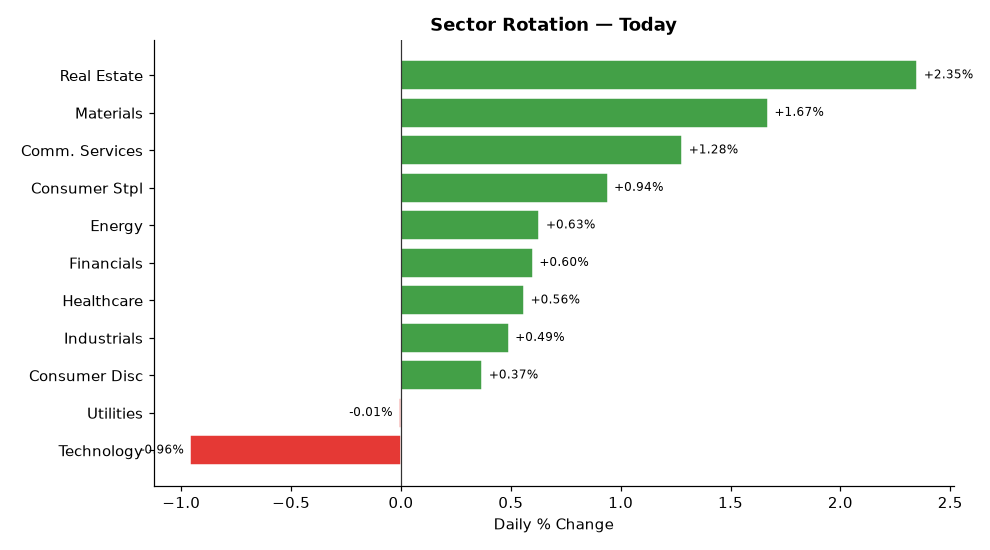
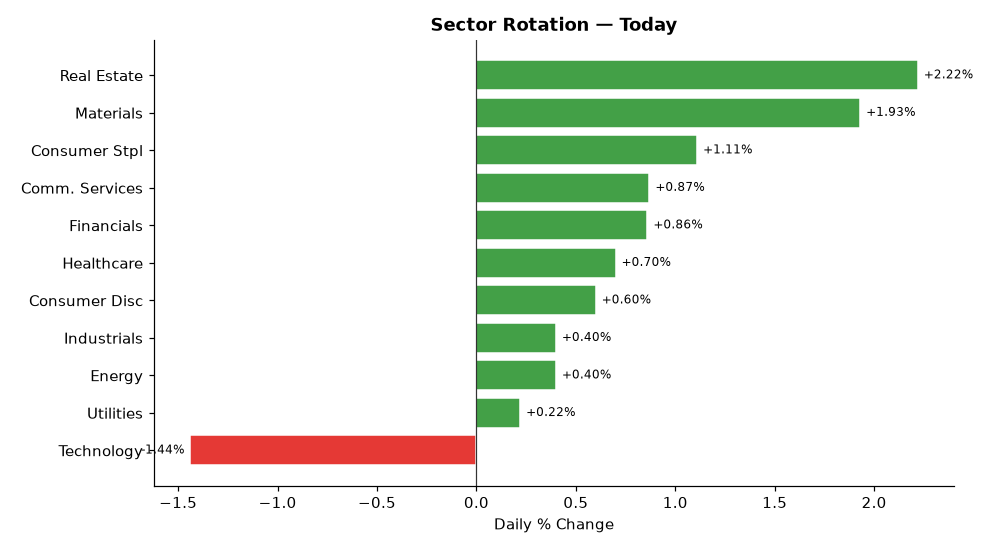
deploy: b7fadf5b06deb90e7ebb92f278722414bdd9750d

diff --git a/index.html b/index.html
@@ -4,7 +4,7 @@
   <meta charset="UTF-8">
   <meta name="viewport" content="width=device-width,initial-scale=1">
   <meta http-equiv="Cache-Control" content="no-cache,no-store,must-revalidate">
-  <title>Stock Breakout Screener — 2026-07-24 18:23</title>
+  <title>Stock Breakout Screener — 2026-07-24 20:15</title>
   <style>
     *{box-sizing:border-box;margin:0;padding:0}
     body{font-family:'Segoe UI',Arial,sans-serif;background:#f0f2f5;
@@ -34,7 +34,7 @@
 
 <div class="hdr">
   <h1>📈 Stock Breakout Screener</h1>
-  <p>Updated: 2026-07-24 18:23 UTC &nbsp;·&nbsp; Phase: Regular Market Hours &nbsp;·&nbsp;
+  <p>Updated: 2026-07-24 20:15 UTC &nbsp;·&nbsp; Phase: After-Hours (4:00–8:00 PM ET) &nbsp;·&nbsp;
      129 stocks screened &nbsp;·&nbsp; Top 5 by conviction score</p>
 </div>
 
@@ -69,7 +69,7 @@
             </span>
           </div>
           <ul style="margin:0;padding-left:18px;font-size:13px;
-                     color:#333;line-height:1.8"><li style="margin:5px 0"><span style="background:#e8f5e9;color:#2e7d32;padding:2px 7px;border-radius:4px;font-size:11px;">✅</span> Volume: <b>3.2× average</b> — 🔥 Strong unusual activity</li><li style="margin:5px 0"><span style="background:#e8f5e9;color:#2e7d32;padding:2px 7px;border-radius:4px;font-size:11px;">✅</span> Candle: close <b>$202.71</b> vs open <b>$190.00</b> (+6.7%) — regular market close</li><li style="margin:5px 0"><span style="background:#e8f5e9;color:#2e7d32;padding:2px 7px;border-radius:4px;font-size:11px;">✅</span> 200-Day MA: price <b>$202.71</b> vs MA <b>$182.37</b> — <b>✅ Above</b> long-term trend</li><li style="margin:5px 0"><span style="background:#e8f5e9;color:#2e7d32;padding:2px 7px;border-radius:4px;font-size:11px;">✅</span> Inst. ownership: <b>98.6%</b> · MFI: <b>76.7</b> · Market cap: <b>$76.2B</b></li></ul>
+                     color:#333;line-height:1.8"><li style="margin:5px 0"><span style="background:#e8f5e9;color:#2e7d32;padding:2px 7px;border-radius:4px;font-size:11px;">✅</span> Volume: <b>4.0× average</b> — 🔥 Strong unusual activity</li><li style="margin:5px 0"><span style="background:#e8f5e9;color:#2e7d32;padding:2px 7px;border-radius:4px;font-size:11px;">✅</span> Candle: close <b>$198.94</b> vs open <b>$190.00</b> (+4.7%) — regular market close</li><li style="margin:5px 0"><span style="background:#e8f5e9;color:#2e7d32;padding:2px 7px;border-radius:4px;font-size:11px;">✅</span> 200-Day MA: price <b>$198.94</b> vs MA <b>$182.34</b> — <b>✅ Above</b> long-term trend</li><li style="margin:5px 0"><span style="background:#e8f5e9;color:#2e7d32;padding:2px 7px;border-radius:4px;font-size:11px;">✅</span> Inst. ownership: <b>98.6%</b> · MFI: <b>77.8</b> · Market cap: <b>$74.9B</b></li></ul>
         </div>
         <div style="background:#fff;border:1px solid #ddd;border-radius:10px;
                     padding:16px 20px;margin-bottom:12px;
@@ -77,7 +77,7 @@
           <div style="display:flex;align-items:center;gap:10px;
                       flex-wrap:wrap;margin-bottom:10px">
             <span style="font-size:22px">🟢</span>
-            <span style="font-size:19px;font-weight:700">2. EQIX</span>
+            <span style="font-size:19px;font-weight:700">2. PLD</span>
             <span style="font-size:12px;color:#666">Real Estate</span>
             <span style="margin-left:auto;background:#1a237e;color:#fff;
                          padding:3px 12px;border-radius:12px;
@@ -86,7 +86,7 @@
             </span>
           </div>
           <ul style="margin:0;padding-left:18px;font-size:13px;
-                     color:#333;line-height:1.8"><li style="margin:5px 0"><span style="background:#ffebee;color:#b71c1c;padding:2px 7px;border-radius:4px;font-size:11px;">❌</span> Volume: <b>0.8× average</b> — Above-average activity</li><li style="margin:5px 0"><span style="background:#e8f5e9;color:#2e7d32;padding:2px 7px;border-radius:4px;font-size:11px;">✅</span> Candle: close <b>$1096.27</b> vs open <b>$1059.37</b> (+3.5%) — regular market close</li><li style="margin:5px 0"><span style="background:#e8f5e9;color:#2e7d32;padding:2px 7px;border-radius:4px;font-size:11px;">✅</span> 200-Day MA: price <b>$1096.27</b> vs MA <b>$1005.90</b> — <b>✅ Above</b> long-term trend</li><li style="margin:5px 0"><span style="background:#e8f5e9;color:#2e7d32;padding:2px 7px;border-radius:4px;font-size:11px;">✅</span> Inst. ownership: <b>100.2%</b> · MFI: <b>72.0</b> · Market cap: <b>$108.1B</b></li></ul>
+                     color:#333;line-height:1.8"><li style="margin:5px 0"><span style="background:#fffde7;color:#f57f17;padding:2px 7px;border-radius:4px;font-size:11px;">⚠</span> Volume: <b>1.5× average</b> — Above-average activity</li><li style="margin:5px 0"><span style="background:#fffde7;color:#f57f17;padding:2px 7px;border-radius:4px;font-size:11px;">⚠</span> Candle: close <b>$147.60</b> vs open <b>$145.10</b> (+1.7%) — regular market close</li><li style="margin:5px 0"><span style="background:#e8f5e9;color:#2e7d32;padding:2px 7px;border-radius:4px;font-size:11px;">✅</span> 200-Day MA: price <b>$147.60</b> vs MA <b>$138.47</b> — <b>✅ Above</b> long-term trend</li><li style="margin:5px 0"><span style="background:#e8f5e9;color:#2e7d32;padding:2px 7px;border-radius:4px;font-size:11px;">✅</span> Inst. ownership: <b>98.1%</b> · MFI: <b>62.1</b> · Market cap: <b>$140.8B</b></li></ul>
         </div>
         <div style="background:#fff;border:1px solid #ddd;border-radius:10px;
                     padding:16px 20px;margin-bottom:12px;
@@ -103,7 +103,7 @@
             </span>
           </div>
           <ul style="margin:0;padding-left:18px;font-size:13px;
-                     color:#333;line-height:1.8"><li style="margin:5px 0"><span style="background:#ffebee;color:#b71c1c;padding:2px 7px;border-radius:4px;font-size:11px;">❌</span> Volume: <b>0.6× average</b> — Above-average activity</li><li style="margin:5px 0"><span style="background:#e8f5e9;color:#2e7d32;padding:2px 7px;border-radius:4px;font-size:11px;">✅</span> Candle: close <b>$332.39</b> vs open <b>$322.04</b> (+3.2%) — regular market close</li><li style="margin:5px 0"><span style="background:#e8f5e9;color:#2e7d32;padding:2px 7px;border-radius:4px;font-size:11px;">✅</span> 200-Day MA: price <b>$332.39</b> vs MA <b>$281.25</b> — <b>✅ Above</b> long-term trend</li><li style="margin:5px 0"><span style="background:#e8f5e9;color:#2e7d32;padding:2px 7px;border-radius:4px;font-size:11px;">✅</span> Inst. ownership: <b>66.5%</b> · MFI: <b>60.4</b> · Market cap: <b>$4882.2B</b></li><li style="margin:5px 0"><span style="background:#e8f5e9;color:#2e7d32;padding:2px 7px;border-radius:4px;font-size:11px;">✅</span> Last similar breakout: <b>Jun 26, 2026</b> → <b>+11.8%</b> over 10 trading days</li></ul>
+                     color:#333;line-height:1.8"><li style="margin:5px 0"><span style="background:#ffebee;color:#b71c1c;padding:2px 7px;border-radius:4px;font-size:11px;">❌</span> Volume: <b>0.9× average</b> — Above-average activity</li><li style="margin:5px 0"><span style="background:#e8f5e9;color:#2e7d32;padding:2px 7px;border-radius:4px;font-size:11px;">✅</span> Candle: close <b>$333.02</b> vs open <b>$321.79</b> (+3.5%) — regular market close</li><li style="margin:5px 0"><span style="background:#e8f5e9;color:#2e7d32;padding:2px 7px;border-radius:4px;font-size:11px;">✅</span> 200-Day MA: price <b>$333.02</b> vs MA <b>$281.26</b> — <b>✅ Above</b> long-term trend</li><li style="margin:5px 0"><span style="background:#e8f5e9;color:#2e7d32;padding:2px 7px;border-radius:4px;font-size:11px;">✅</span> Inst. ownership: <b>66.5%</b> · MFI: <b>61.5</b> · Market cap: <b>$4891.2B</b></li><li style="margin:5px 0"><span style="background:#e8f5e9;color:#2e7d32;padding:2px 7px;border-radius:4px;font-size:11px;">✅</span> Last similar breakout: <b>Jun 26, 2026</b> → <b>+11.8%</b> over 10 trading days</li></ul>
         </div>
         <div style="background:#fff;border:1px solid #ddd;border-radius:10px;
                     padding:16px 20px;margin-bottom:12px;
@@ -111,7 +111,24 @@
           <div style="display:flex;align-items:center;gap:10px;
                       flex-wrap:wrap;margin-bottom:10px">
             <span style="font-size:22px">🟡</span>
-            <span style="font-size:19px;font-weight:700">4. PLD</span>
+            <span style="font-size:19px;font-weight:700">4. VZ</span>
+            <span style="font-size:12px;color:#666">Comm. Services</span>
+            <span style="margin-left:auto;background:#1a237e;color:#fff;
+                         padding:3px 12px;border-radius:12px;
+                         font-size:13px;font-weight:600">
+              11/17
+            </span>
+          </div>
+          <ul style="margin:0;padding-left:18px;font-size:13px;
+                     color:#333;line-height:1.8"><li style="margin:5px 0"><span style="background:#fffde7;color:#f57f17;padding:2px 7px;border-radius:4px;font-size:11px;">⚠</span> Volume: <b>1.4× average</b> — Above-average activity</li><li style="margin:5px 0"><span style="background:#e8f5e9;color:#2e7d32;padding:2px 7px;border-radius:4px;font-size:11px;">✅</span> Candle: close <b>$46.38</b> vs open <b>$44.08</b> (+5.2%) — regular market close</li><li style="margin:5px 0"><span style="background:#e8f5e9;color:#2e7d32;padding:2px 7px;border-radius:4px;font-size:11px;">✅</span> 200-Day MA: price <b>$46.38</b> vs MA <b>$45.96</b> — <b>✅ Above</b> long-term trend</li><li style="margin:5px 0"><span style="background:#e8f5e9;color:#2e7d32;padding:2px 7px;border-radius:4px;font-size:11px;">✅</span> Inst. ownership: <b>70.4%</b> · MFI: <b>68.4</b> · Market cap: <b>$193.7B</b></li></ul>
+        </div>
+        <div style="background:#fff;border:1px solid #ddd;border-radius:10px;
+                    padding:16px 20px;margin-bottom:12px;
+                    box-shadow:0 2px 6px rgba(0,0,0,.07)">
+          <div style="display:flex;align-items:center;gap:10px;
+                      flex-wrap:wrap;margin-bottom:10px">
+            <span style="font-size:22px">🟡</span>
+            <span style="font-size:19px;font-weight:700">5. EQIX</span>
             <span style="font-size:12px;color:#666">Real Estate</span>
             <span style="margin-left:auto;background:#1a237e;color:#fff;
                          padding:3px 12px;border-radius:12px;
@@ -120,24 +137,7 @@
             </span>
           </div>
           <ul style="margin:0;padding-left:18px;font-size:13px;
-                     color:#333;line-height:1.8"><li style="margin:5px 0"><span style="background:#ffebee;color:#b71c1c;padding:2px 7px;border-radius:4px;font-size:11px;">❌</span> Volume: <b>1.0× average</b> — Above-average activity</li><li style="margin:5px 0"><span style="background:#ffebee;color:#b71c1c;padding:2px 7px;border-radius:4px;font-size:11px;">❌</span> Candle: close <b>$148.05</b> vs open <b>$145.10</b> (+2.0%) — regular market close</li><li style="margin:5px 0"><span style="background:#e8f5e9;color:#2e7d32;padding:2px 7px;border-radius:4px;font-size:11px;">✅</span> 200-Day MA: price <b>$148.05</b> vs MA <b>$138.47</b> — <b>✅ Above</b> long-term trend</li><li style="margin:5px 0"><span style="background:#e8f5e9;color:#2e7d32;padding:2px 7px;border-radius:4px;font-size:11px;">✅</span> Inst. ownership: <b>98.1%</b> · MFI: <b>60.8</b> · Market cap: <b>$141.3B</b></li></ul>
-        </div>
-        <div style="background:#fff;border:1px solid #ddd;border-radius:10px;
-                    padding:16px 20px;margin-bottom:12px;
-                    box-shadow:0 2px 6px rgba(0,0,0,.07)">
-          <div style="display:flex;align-items:center;gap:10px;
-                      flex-wrap:wrap;margin-bottom:10px">
-            <span style="font-size:22px">🟡</span>
-            <span style="font-size:19px;font-weight:700">5. VZ</span>
-            <span style="font-size:12px;color:#666">Comm. Services</span>
-            <span style="margin-left:auto;background:#1a237e;color:#fff;
-                         padding:3px 12px;border-radius:12px;
-                         font-size:13px;font-weight:600">
-              9/17
-            </span>
-          </div>
-          <ul style="margin:0;padding-left:18px;font-size:13px;
-                     color:#333;line-height:1.8"><li style="margin:5px 0"><span style="background:#ffebee;color:#b71c1c;padding:2px 7px;border-radius:4px;font-size:11px;">❌</span> Volume: <b>0.8× average</b> — Above-average activity</li><li style="margin:5px 0"><span style="background:#e8f5e9;color:#2e7d32;padding:2px 7px;border-radius:4px;font-size:11px;">✅</span> Candle: close <b>$45.76</b> vs open <b>$44.08</b> (+3.8%) — regular market close</li><li style="margin:5px 0"><span style="background:#ffebee;color:#b71c1c;padding:2px 7px;border-radius:4px;font-size:11px;">❌</span> 200-Day MA: price <b>$45.76</b> vs MA <b>$45.96</b> — <b>❌ Below</b> long-term trend</li><li style="margin:5px 0"><span style="background:#e8f5e9;color:#2e7d32;padding:2px 7px;border-radius:4px;font-size:11px;">✅</span> Inst. ownership: <b>70.4%</b> · MFI: <b>66.9</b> · Market cap: <b>$191.1B</b></li></ul>
+                     color:#333;line-height:1.8"><li style="margin:5px 0"><span style="background:#ffebee;color:#b71c1c;padding:2px 7px;border-radius:4px;font-size:11px;">❌</span> Volume: <b>1.2× average</b> — Above-average activity</li><li style="margin:5px 0"><span style="background:#ffebee;color:#b71c1c;padding:2px 7px;border-radius:4px;font-size:11px;">❌</span> Candle: close <b>$1084.24</b> vs open <b>$1059.37</b> (+2.3%) — regular market close</li><li style="margin:5px 0"><span style="background:#e8f5e9;color:#2e7d32;padding:2px 7px;border-radius:4px;font-size:11px;">✅</span> 200-Day MA: price <b>$1084.24</b> vs MA <b>$1005.81</b> — <b>✅ Above</b> long-term trend</li><li style="margin:5px 0"><span style="background:#e8f5e9;color:#2e7d32;padding:2px 7px;border-radius:4px;font-size:11px;">✅</span> Inst. ownership: <b>100.2%</b> · MFI: <b>73.1</b> · Market cap: <b>$106.9B</b></li></ul>
         </div>
 
 
@@ -169,35 +169,35 @@
         <tr>
           <td style="font-weight:700;text-align:left;padding-left:10px">
             🟢 DLR</td>
-          <td style="background:#c8e6c9">3.2×</td>
-          <td style="background:#c8e6c9">+6.7%</td>
+          <td style="background:#c8e6c9">4.0×</td>
+          <td style="background:#c8e6c9">+4.7%</td>
           <td style="background:#c8e6c9">
             ▲ Above</td>
           <td style="background:#c8e6c9">
             98.6%</td>
           <td style="background:#c8e6c9">
-            76.7</td>
+            77.8</td>
           <td style="background:#c8e6c9">Real Estate</td>
           <td style="background:#c8e6c9">
-            265.0%</td>
+            218.3%</td>
           <td style="background:#ffcdd2">
             N/A</td>
           <td style="font-weight:800;font-size:15px">15/17</td>
         </tr>
         <tr>
           <td style="font-weight:700;text-align:left;padding-left:10px">
-            🟢 EQIX</td>
-          <td style="background:#ffcdd2">0.8×</td>
-          <td style="background:#c8e6c9">+3.5%</td>
+            🟢 PLD</td>
+          <td style="background:#fff9c4">1.5×</td>
+          <td style="background:#fff9c4">+1.7%</td>
           <td style="background:#c8e6c9">
             ▲ Above</td>
           <td style="background:#c8e6c9">
-            100.2%</td>
+            98.1%</td>
           <td style="background:#c8e6c9">
-            72.0</td>
+            62.1</td>
           <td style="background:#c8e6c9">Real Estate</td>
           <td style="background:#c8e6c9">
-            39.5%</td>
+            37.4%</td>
           <td style="background:#ffcdd2">
             N/A</td>
           <td style="font-weight:800;font-size:15px">13/17</td>
@@ -205,56 +205,56 @@
         <tr>
           <td style="font-weight:700;text-align:left;padding-left:10px">
             🟢 AAPL</td>
-          <td style="background:#ffcdd2">0.6×</td>
-          <td style="background:#c8e6c9">+3.2%</td>
+          <td style="background:#ffcdd2">0.9×</td>
+          <td style="background:#c8e6c9">+3.5%</td>
           <td style="background:#c8e6c9">
             ▲ Above</td>
           <td style="background:#c8e6c9">
             66.5%</td>
           <td style="background:#c8e6c9">
-            60.4</td>
+            61.5</td>
           <td style="background:#ffcdd2">Technology</td>
           <td style="background:#c8e6c9">
-            279.0%</td>
+            255.4%</td>
           <td style="background:#c8e6c9">
             +11.8%</td>
           <td style="font-weight:800;font-size:15px">12/17</td>
         </tr>
         <tr>
           <td style="font-weight:700;text-align:left;padding-left:10px">
-            🟡 PLD</td>
-          <td style="background:#ffcdd2">1.0×</td>
-          <td style="background:#ffcdd2">+2.0%</td>
+            🟡 VZ</td>
+          <td style="background:#fff9c4">1.4×</td>
+          <td style="background:#c8e6c9">+5.2%</td>
           <td style="background:#c8e6c9">
             ▲ Above</td>
           <td style="background:#c8e6c9">
-            98.1%</td>
+            70.4%</td>
           <td style="background:#c8e6c9">
-            60.8</td>
-          <td style="background:#c8e6c9">Real Estate</td>
+            68.4</td>
+          <td style="background:#ffcdd2">Comm. Services</td>
           <td style="background:#c8e6c9">
-            35.7%</td>
+            195.5%</td>
           <td style="background:#ffcdd2">
             N/A</td>
           <td style="font-weight:800;font-size:15px">11/17</td>
         </tr>
         <tr>
           <td style="font-weight:700;text-align:left;padding-left:10px">
-            🟡 VZ</td>
-          <td style="background:#ffcdd2">0.8×</td>
-          <td style="background:#c8e6c9">+3.8%</td>
-          <td style="background:#ffcdd2">
-            ▼ Below</td>
+            🟡 EQIX</td>
+          <td style="background:#ffcdd2">1.2×</td>
+          <td style="background:#ffcdd2">+2.3%</td>
           <td style="background:#c8e6c9">
-            70.4%</td>
+            ▲ Above</td>
           <td style="background:#c8e6c9">
-            66.9</td>
-          <td style="background:#fff9c4">Comm. Services</td>
+            100.2%</td>
           <td style="background:#c8e6c9">
-            134.5%</td>
+            73.1</td>
+          <td style="background:#c8e6c9">Real Estate</td>
+          <td style="background:#c8e6c9">
+            39.2%</td>
           <td style="background:#ffcdd2">
             N/A</td>
-          <td style="font-weight:800;font-size:15px">9/17</td>
+          <td style="font-weight:800;font-size:15px">11/17</td>
         </tr>
 </table>
 </div>
@@ -278,57 +278,57 @@
         <tr>
           <td style="text-align:left;padding-left:10px;font-weight:600">
             #1 Real Estate</td>
-          <td style="background:#e8f5e9;color:#2e7d32;font-weight:700">+2.35%</td>
+          <td style="background:#e8f5e9;color:#2e7d32;font-weight:700">+2.22%</td>
         </tr>
         <tr>
           <td style="text-align:left;padding-left:10px;font-weight:600">
             #2 Materials</td>
-          <td style="background:#e8f5e9;color:#2e7d32;font-weight:700">+1.67%</td>
+          <td style="background:#e8f5e9;color:#2e7d32;font-weight:700">+1.93%</td>
         </tr>
         <tr>
           <td style="text-align:left;padding-left:10px;font-weight:600">
-            #3 Comm. Services</td>
-          <td style="background:#e8f5e9;color:#2e7d32;font-weight:700">+1.28%</td>
+            #3 Consumer Stpl</td>
+          <td style="background:#e8f5e9;color:#2e7d32;font-weight:700">+1.11%</td>
         </tr>
         <tr>
           <td style="text-align:left;padding-left:10px;font-weight:600">
-            #4 Consumer Stpl</td>
-          <td style="background:#e8f5e9;color:#2e7d32;font-weight:700">+0.94%</td>
+            #4 Comm. Services</td>
+          <td style="background:#e8f5e9;color:#2e7d32;font-weight:700">+0.87%</td>
         </tr>
         <tr>
           <td style="text-align:left;padding-left:10px;font-weight:600">
-            #5 Energy</td>
-          <td style="background:#e8f5e9;color:#2e7d32;font-weight:700">+0.63%</td>
+            #5 Financials</td>
+          <td style="background:#e8f5e9;color:#2e7d32;font-weight:700">+0.86%</td>
         </tr>
         <tr>
           <td style="text-align:left;padding-left:10px;font-weight:600">
-            #6 Financials</td>
+            #6 Healthcare</td>
+          <td style="background:#e8f5e9;color:#2e7d32;font-weight:700">+0.70%</td>
+        </tr>
+        <tr>
+          <td style="text-align:left;padding-left:10px;font-weight:600">
+            #7 Consumer Disc</td>
           <td style="background:#e8f5e9;color:#2e7d32;font-weight:700">+0.60%</td>
         </tr>
         <tr>
           <td style="text-align:left;padding-left:10px;font-weight:600">
-            #7 Healthcare</td>
-          <td style="background:#e8f5e9;color:#2e7d32;font-weight:700">+0.56%</td>
-        </tr>
-        <tr>
-          <td style="text-align:left;padding-left:10px;font-weight:600">
             #8 Industrials</td>
-          <td style="background:#e8f5e9;color:#2e7d32;font-weight:700">+0.49%</td>
+          <td style="background:#e8f5e9;color:#2e7d32;font-weight:700">+0.40%</td>
         </tr>
         <tr>
           <td style="text-align:left;padding-left:10px;font-weight:600">
-            #9 Consumer Disc</td>
-          <td style="background:#e8f5e9;color:#2e7d32;font-weight:700">+0.37%</td>
+            #9 Energy</td>
+          <td style="background:#e8f5e9;color:#2e7d32;font-weight:700">+0.40%</td>
         </tr>
         <tr>
           <td style="text-align:left;padding-left:10px;font-weight:600">
             #10 Utilities</td>
-          <td style="background:#ffebee;color:#c62828;font-weight:700">-0.01%</td>
+          <td style="background:#e8f5e9;color:#2e7d32;font-weight:700">+0.22%</td>
         </tr>
         <tr>
           <td style="text-align:left;padding-left:10px;font-weight:600">
             #11 Technology</td>
-          <td style="background:#ffebee;color:#c62828;font-weight:700">-0.96%</td>
+          <td style="background:#ffebee;color:#c62828;font-weight:700">-1.44%</td>
         </tr>
     </table>
   </div>
@@ -367,7 +367,7 @@
         <li><b>Scoring weights:</b>
             Inst.Own(3) · Sector(3) · Volume(2) · Breakout(2) ·
             MA200(2) · MFI(2) · History(2) · IV(1) = 17pts max</li>
-        <li><b>Run time:</b> 2026-07-24 18:23 UTC — Market phase: Regular Market Hours</li>
+        <li><b>Run time:</b> 2026-07-24 20:15 UTC — Market phase: After-Hours (4:00–8:00 PM ET)</li>
       </ul>
     </div>
 
